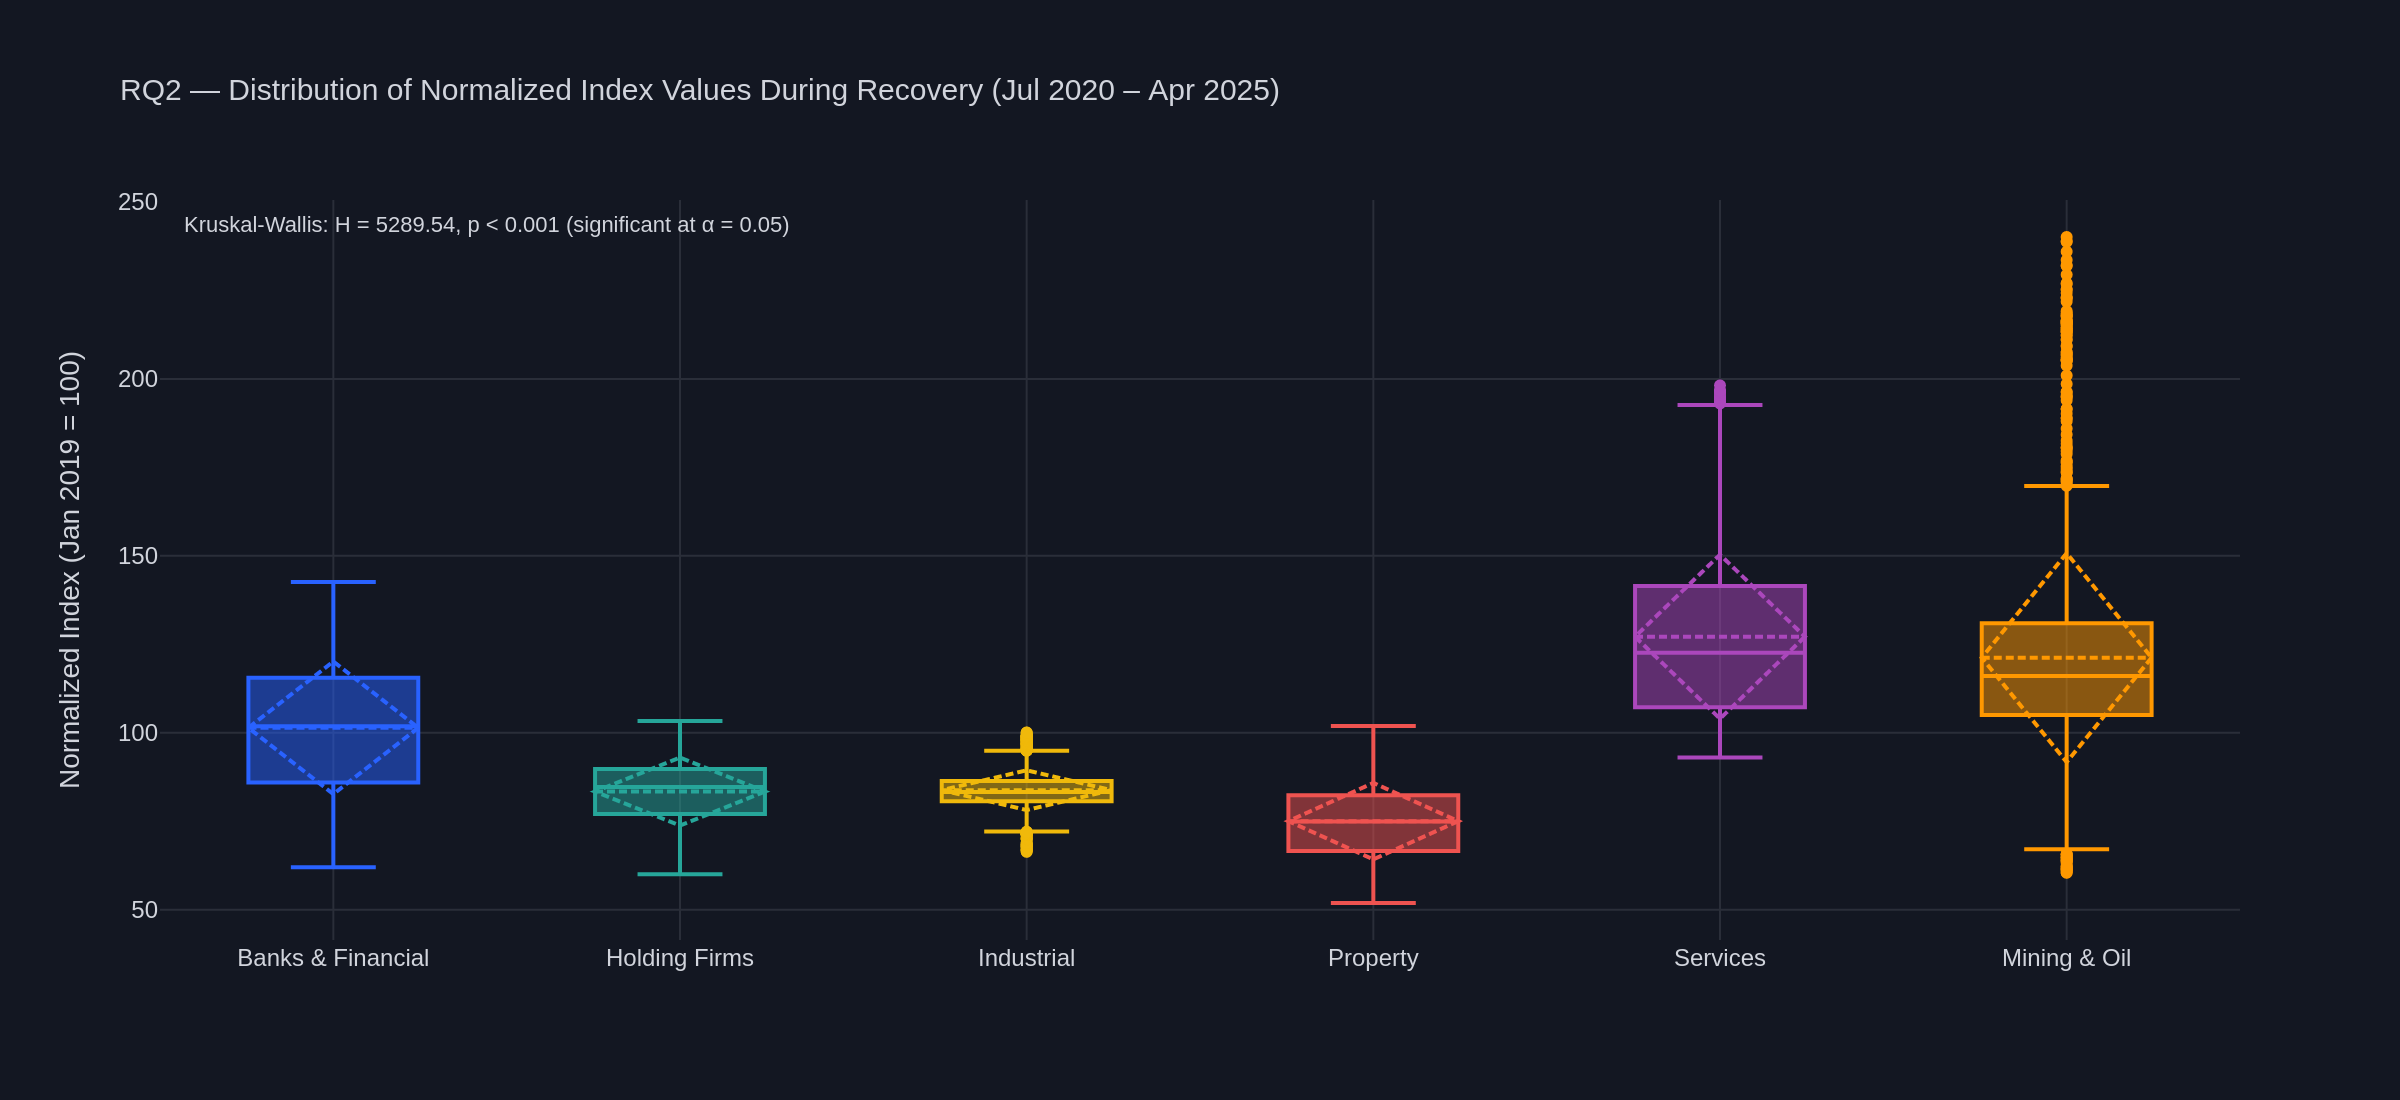
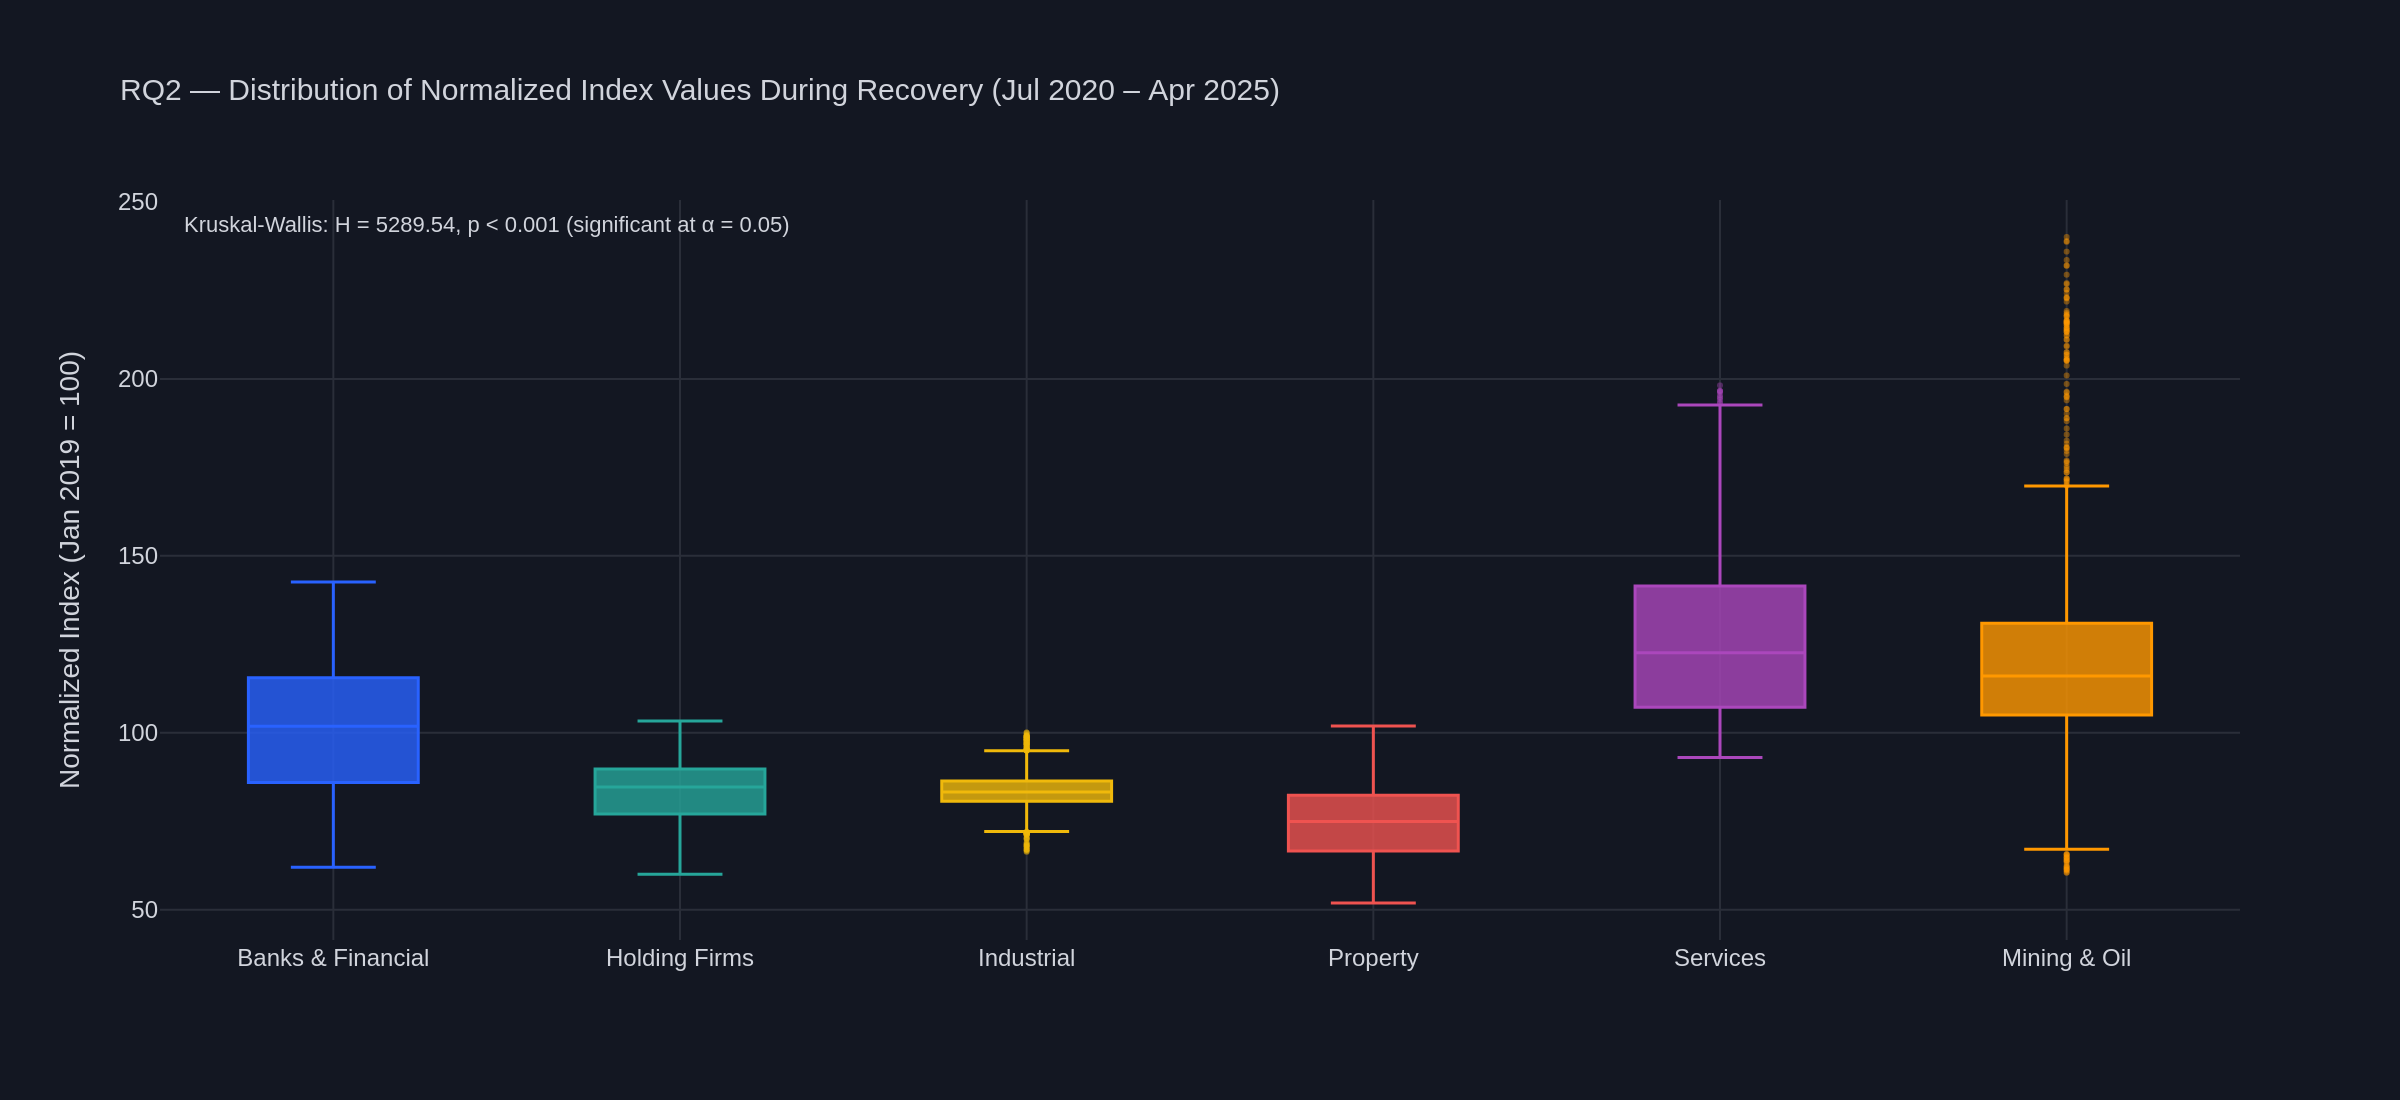
homepage UI + RQ2 fix

diff --git a/css/style.css b/css/style.css
@@ -1450,27 +1450,18 @@ a.callout.green:hover .callout-label::after {
   padding: 12px 0;
 }
 
-.home-hero-glow {
-  position: absolute;
-  inset: -40px;
-  background: radial-gradient(ellipse at center, rgba(37,99,235,0.12) 0%, transparent 65%);
-  pointer-events: none;
-  z-index: 0;
-}
-
 .home-hero-img {
   width: 100%;
   border-radius: 8px;
   display: block;
   position: relative;
   z-index: 1;
-  box-shadow: 0 0 40px rgba(37,99,235,0.08);
-  transition: transform 0.35s ease, box-shadow 0.35s ease;
+  border: 1px solid rgba(37,99,235,0.25);
+  transition: transform 0.35s ease;
 }
 
 .home-hero-img:hover {
   transform: scale(1.04);
-  box-shadow: 0 0 60px rgba(37,99,235,0.2);
 }
 
 /* ── Homepage stats grid ─────────────────────────────────── */

diff --git a/index.html b/index.html
@@ -89,7 +89,6 @@
           </a>
         </div>
         <div class="home-hero-right">
-          <div class="home-hero-glow"></div>
           <img src="assets/nutshell_plot_v3.png"
                alt="Nutshell: PSE Post-COVID Sectoral Recovery (2019–2025)"
                class="home-hero-img" />